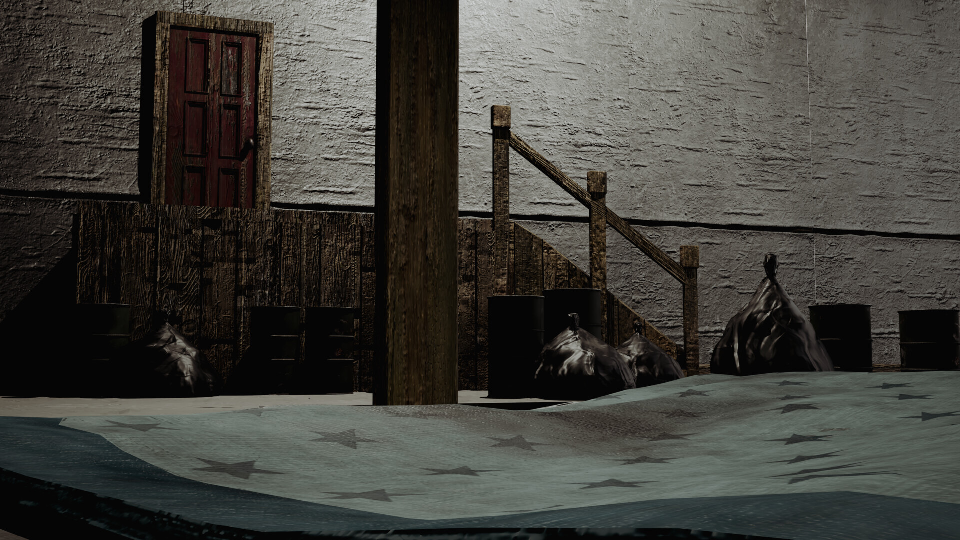
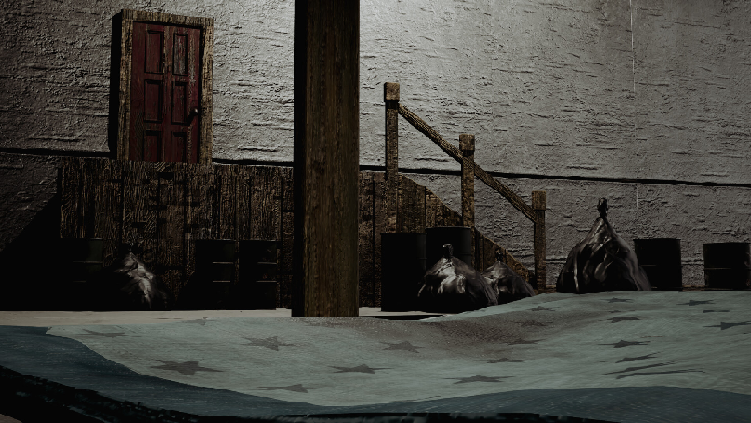
Minor Image Size Adjustments

diff --git a/adventure_game/comply.html b/adventure_game/comply.html
@@ -10,7 +10,7 @@
 	<h1>Robbed Ending</h1>
 	<p>You follow the bandit's orders, giving up all your possessions.</p>
 	<p>You still manage to get to school, but your learning isn't as effective due to you missing your school supplies.</p>
-	<img style="height: 400px;" src="images/robbed.png" alt="Stock Image of a Man with Empty Pockets">
+	<img style="height: 390px;" src="images/robbed.png" alt="Stock Image of a Man with Empty Pockets">
 	<div>
 		<button onclick="window.location.href='start.html'">Restart</button>
 		<button onclick="window.location.href='choice3.html'">Go To Previous Decision</button>

diff --git a/adventure_game/start.html b/adventure_game/start.html
@@ -15,7 +15,7 @@
 	<p>You are a child in the 1800s and have recently been enrolled into primary school.</p>
 	<p>However, the school is very far and you have no transportation.</p>
 	<p>Will you get to school on time and unharmed? Start the game to begin!</p>
-	<img src="images/school.png" alt="A school in the Logan-Beenleigh area, taken in 1872">
+	<img style="height: 420px;" src="images/school.png" alt="A school in the Logan-Beenleigh area, taken in 1872">
 	<div>
 		<button onclick="window.location.href='choice1.html'">Start</button>
 	</div>

diff --git a/adventure_game/style.css b/adventure_game/style.css
@@ -2,6 +2,7 @@ body {
 	background-color: hsl(35, 55%, 85%);
 	font-family: 'Lucida Sans', 'Lucida Sans Regular', 'Lucida Grande', 'Lucida Sans Unicode', Geneva, Verdana, sans-serif;
 	text-align: center;
+	/* overflow: hidden; */
 }
 
 .bad {
@@ -36,7 +37,7 @@ button:hover {
 }
 
 img {
-	max-width: 50em;
+	max-width: 45em;
 	max-height: 30em;
-	min-width: 25em;
+	min-width: 28em;
 }
